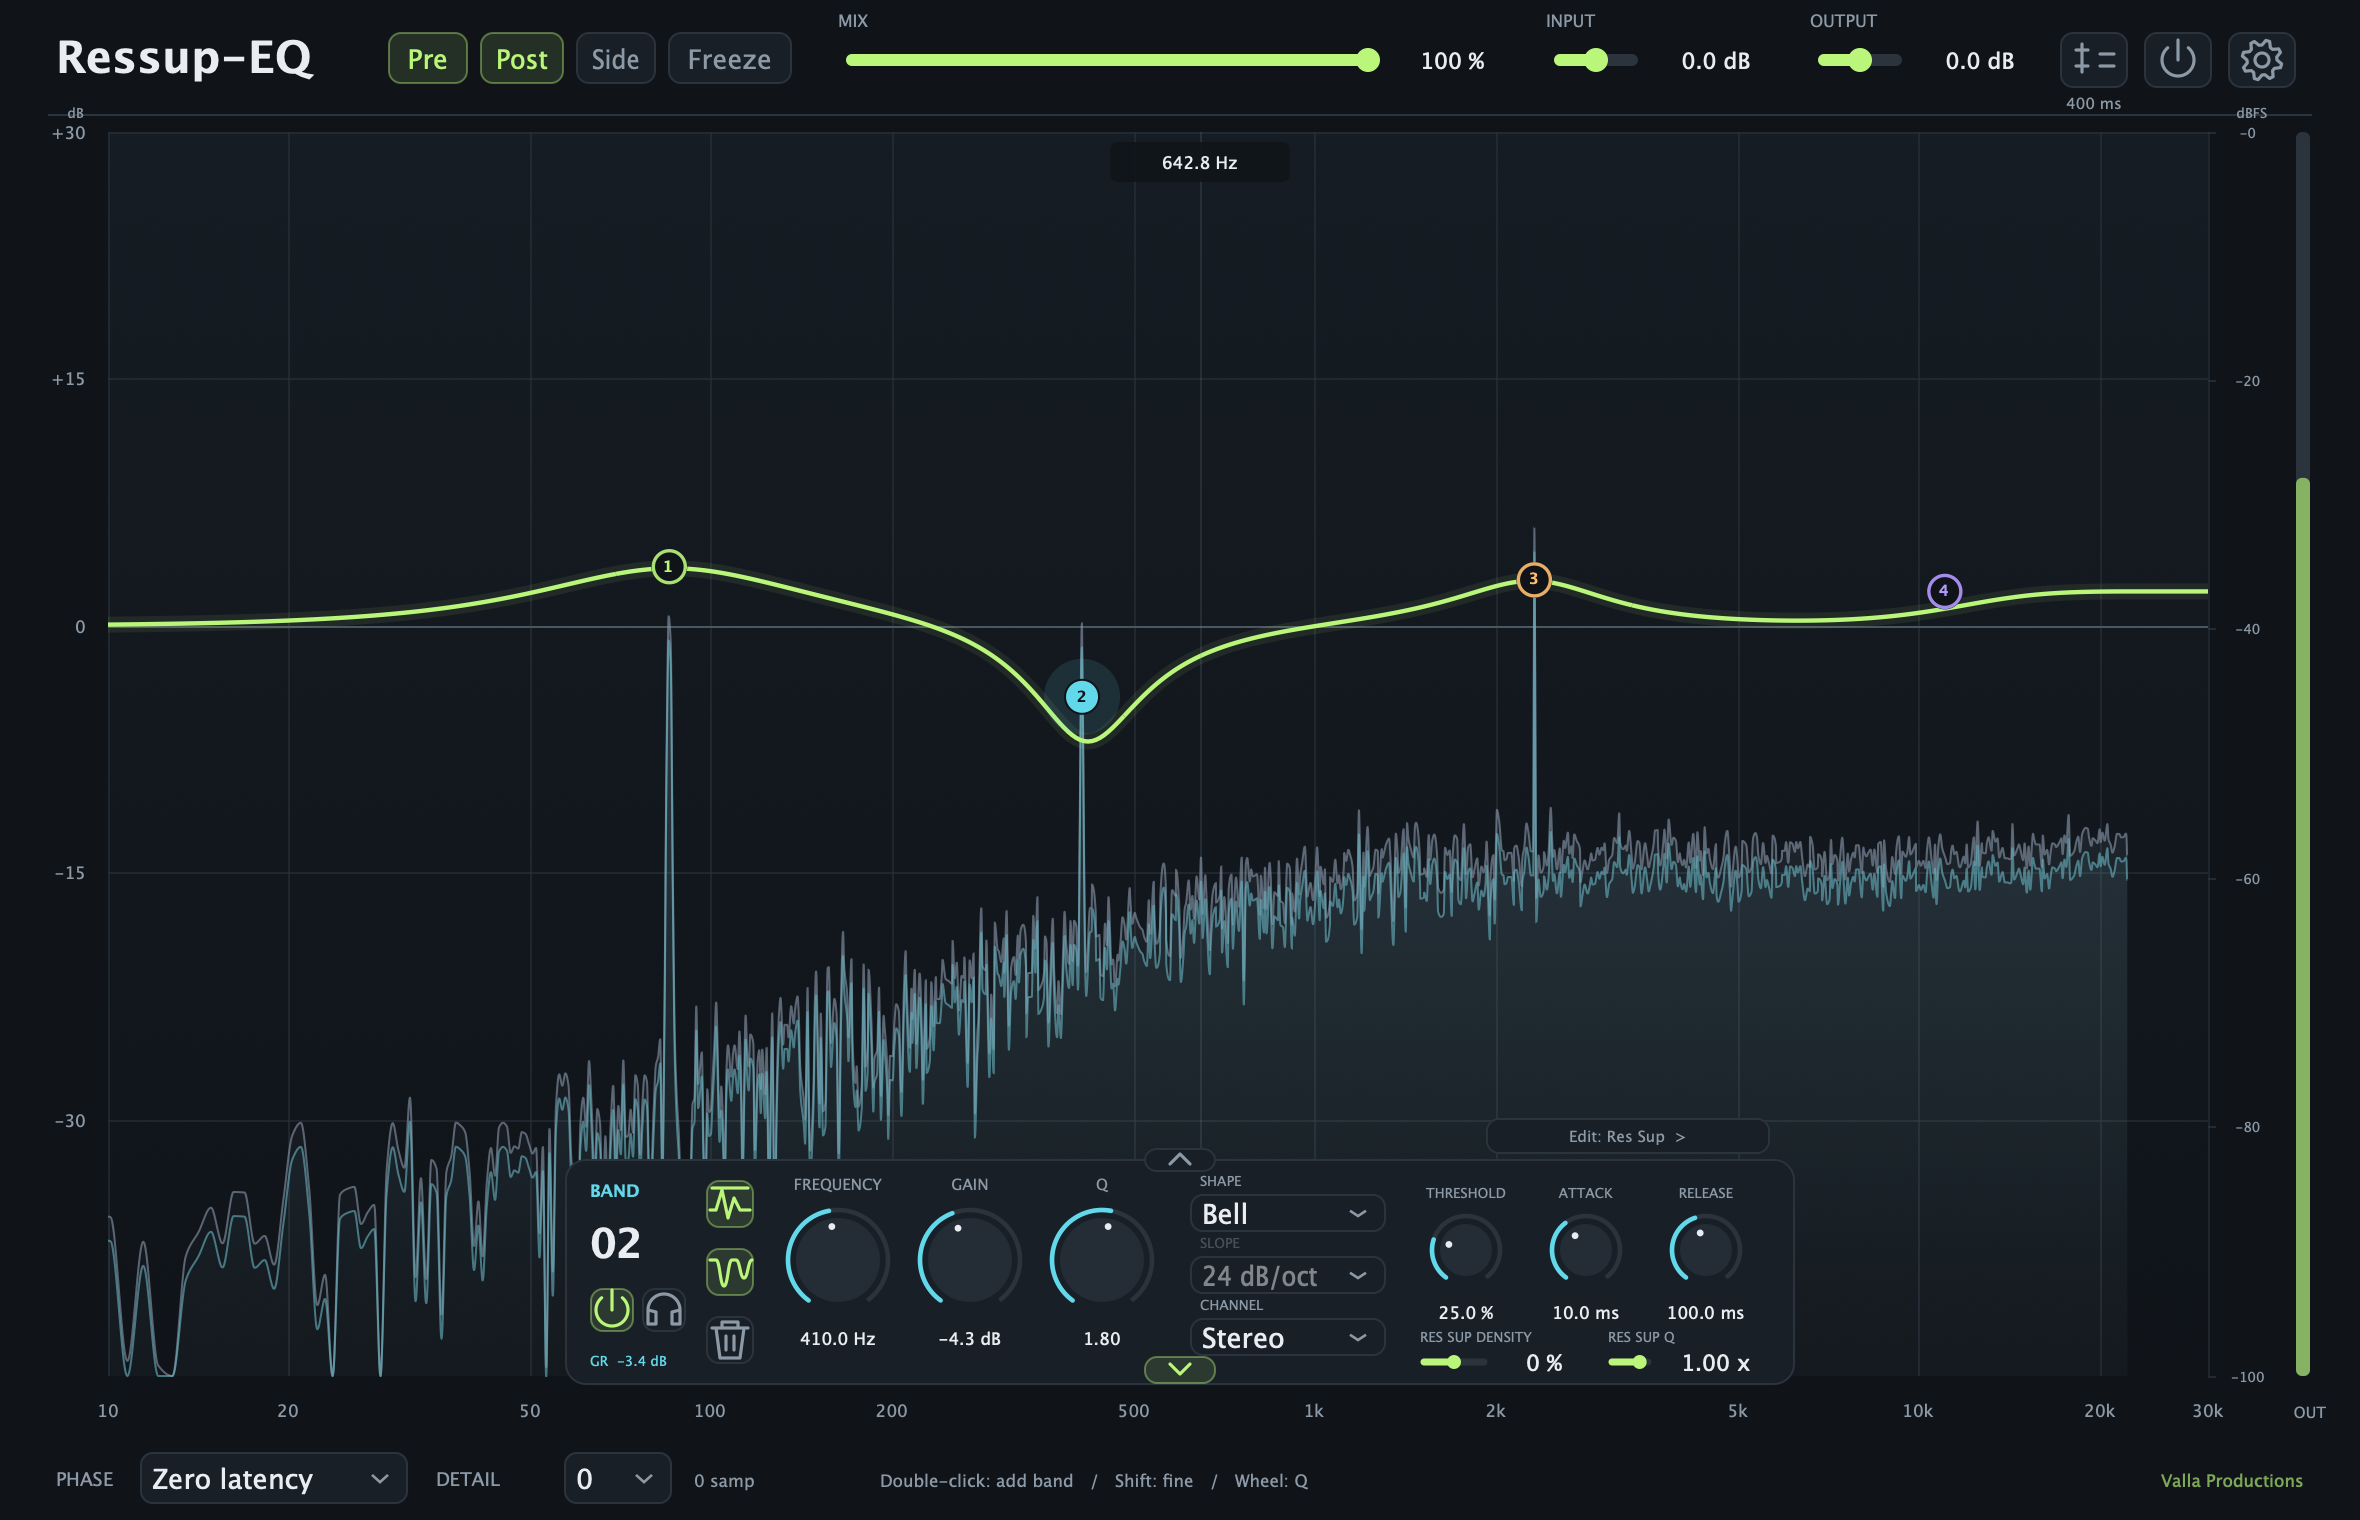
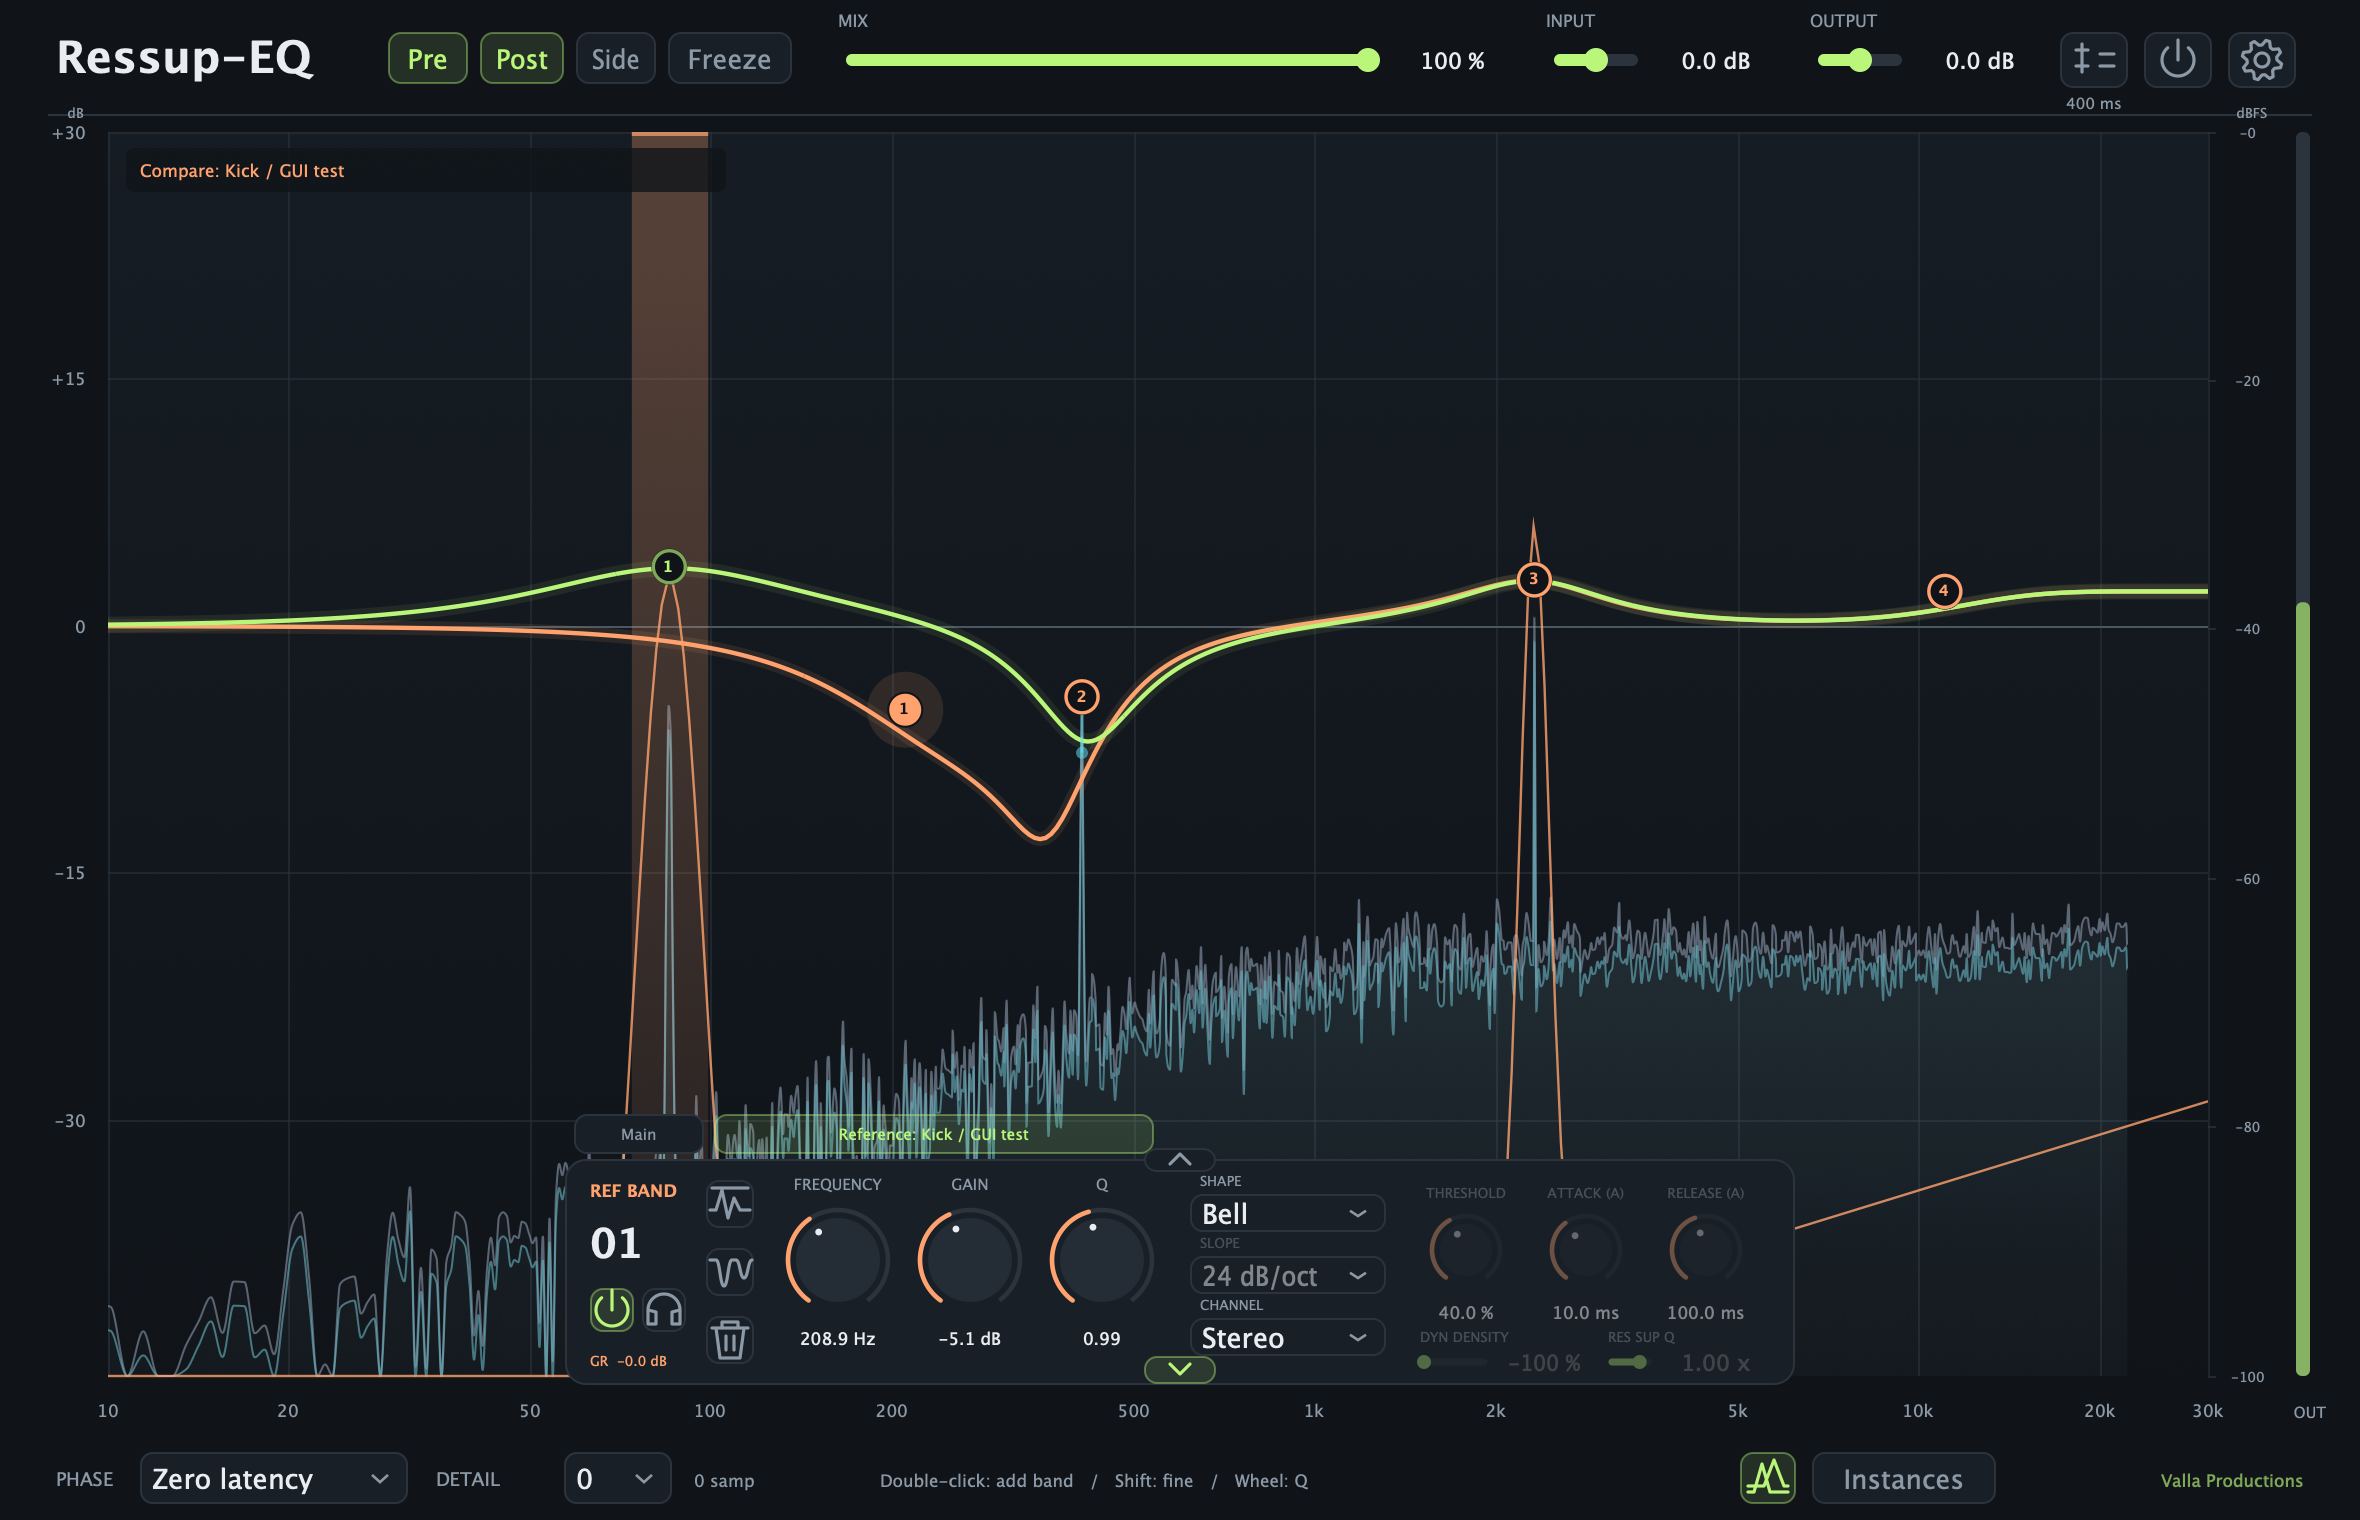
Update README image to show editable instance comparison in 1.20.0

diff --git a/README.md b/README.md
@@ -10,7 +10,7 @@ Res Sup. Use whichever combination the track needs, across up to **24 bands**.
 
 Made by **Francesco Valla · Valla Productions**.
 
-![Ressup-EQ with its combined EQ curve, spectrum analyzer, and Dynamics and Res Sup active on the selected band](images/ressup-eq.png)
+![Ressup-EQ 1.20.0 showing frequency competition, the brick-coloured reference EQ curve and editable reference band controls](images/ressup-eq.png)
 
 **Version 1.20.0** · macOS Apple Silicon: VST3 / AU · Windows x64: VST3 · Linux x86-64: CLAP
 
